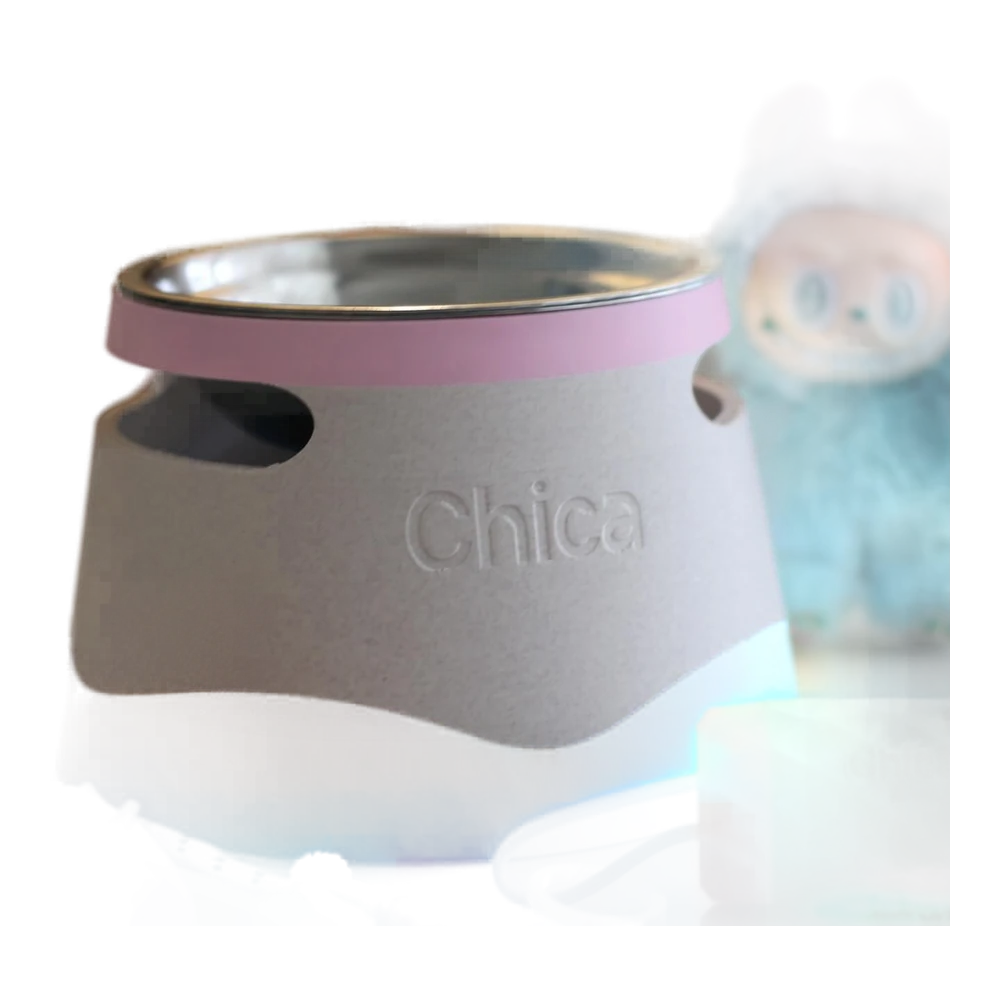
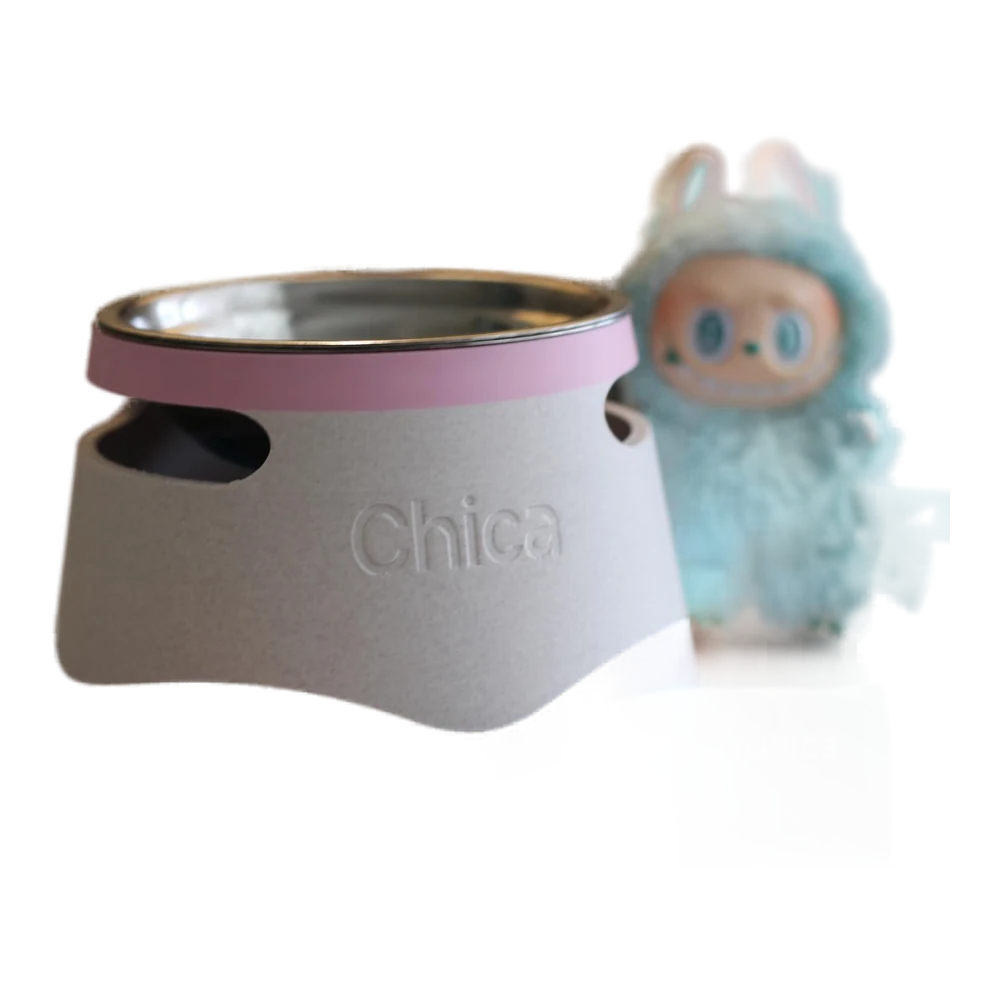
fix(alea): o Kit nao tem foto que de recorte - fica com moldura, e isso e' honesto
Medido tres vezes em 15/09/2026: a unica foto com as duas pecas do Kit juntas esta
desfocada e cheia de caneta em volta, e QUANTO MAIS APERTADO O ENQUADRAMENTO, PIOR A
MASCARA -- o modelo devolve um borrao escuro com a etiqueta. Apertar nao resolve.

Entao o Kit passa a `recorte: false` e aparece com moldura, como antes. Os dois arquivos
de recorte sairam do site pra `_fotos_fora_de_uso/` (arquivados, nao apagados), e a pagina
do Kit voltou a usar a foto normal sozinha -- a checagem de existencia no gerador ja fazia
esse trabalho.

A da Chica voltou pro enquadramento largo: apertei pra tirar o boneco de pelucia do lado e
a mascara piorou junto. Fica o boneco.

Placar das fotos: 6 das 8 pecas com objeto recortado, 2 com moldura (Ayla e Kit). O que
resolve de vez e' foto da peca sozinha em fundo liso -- pedido pro Cassiano, ja anotado
nas pendencias.

Claude-Session: https://claude.ai/code/session_0199m4FmnF9iL8ggUpDqNjj5

diff --git a/produto-kit.html b/produto-kit.html
@@ -58,7 +58,7 @@
 
   <div class="produto-topo">
     <div>
-      <div class="capa-produto sem-fundo"><img src="img/produtos/kit_1_obj.webp" class="recorte" fetchpriority="high" decoding="async" alt="Kit ālea — Comedouro e porta-saquinho na mesma estampa, com o mesmo nome."></div>
+      <div class="capa-produto"><img src="img/produtos/kit_1.jpg" width="1200" height="1200" fetchpriority="high" decoding="async" alt="Kit ālea — Comedouro e porta-saquinho na mesma estampa, com o mesmo nome."></div>
       <p class="colmeia-dica">Clique numa foto pra ampliar.</p><div class="colmeia-caixa"><div class="colmeia" data-colmeia><button class="favo" type="button" data-favo="0" aria-label="Ampliar foto 1 de Kit ālea"><img src="img/produtos/kit_1_m.jpg" width="700" height="700" loading="lazy" decoding="async" alt="Kit ālea — foto 1"></button><button class="favo" type="button" data-favo="1" aria-label="Ampliar foto 2 de Kit ālea"><img src="img/produtos/kit_2_m.jpg" width="700" height="700" loading="lazy" decoding="async" alt="Kit ālea — foto 2"></button><button class="favo" type="button" data-favo="2" aria-label="Ampliar foto 3 de Kit ālea"><img src="img/produtos/kit_3_m.jpg" width="700" height="700" loading="lazy" decoding="async" alt="Kit ālea — foto 3"></button><button class="favo" type="button" data-favo="3" aria-label="Ampliar foto 4 de Kit ālea"><img src="img/produtos/tina_2_m.jpg" width="700" height="700" loading="lazy" decoding="async" alt="Kit ālea — foto 4"></button></div></div>
     </div>
     <div>

diff --git a/js/produtos.js b/js/produtos.js
@@ -78,7 +78,7 @@ window.VITRINE = [
   { produto: 'ālea Bowl Wave', nome: 'Matteo',     categoria: 'pet', preco: 179,  pagina: 'bowl-wave',       recorte: true,  fotos: ['matteo_1','matteo_2','matteo_3'] },
   { produto: 'ālea Bowl Wave', nome: 'Cláudia',    categoria: 'pet', preco: 179,  pagina: 'bowl-wave',       recorte: true,  fotos: ['claudia_1','claudia_2','claudia_3','claudia_4'] },
   { produto: 'ālea Poop Bag',  nome: 'Chica',      categoria: 'pet', preco: 59,   pagina: 'poop-bag-holder', recorte: true,  fotos: ['saquinho_1','saquinho_2','saquinho_3'] },
-  { produto: 'Kit ālea',       nome: 'Tina Preta', categoria: 'pet', preco: null, pagina: 'kit',             recorte: true,  fotos: ['kit_1','kit_2','kit_3'] }
+  { produto: 'Kit ālea',       nome: 'Tina Preta', categoria: 'pet', preco: null, pagina: 'kit',             recorte: false,  fotos: ['kit_1','kit_2','kit_3'] }
 ];
 
 
